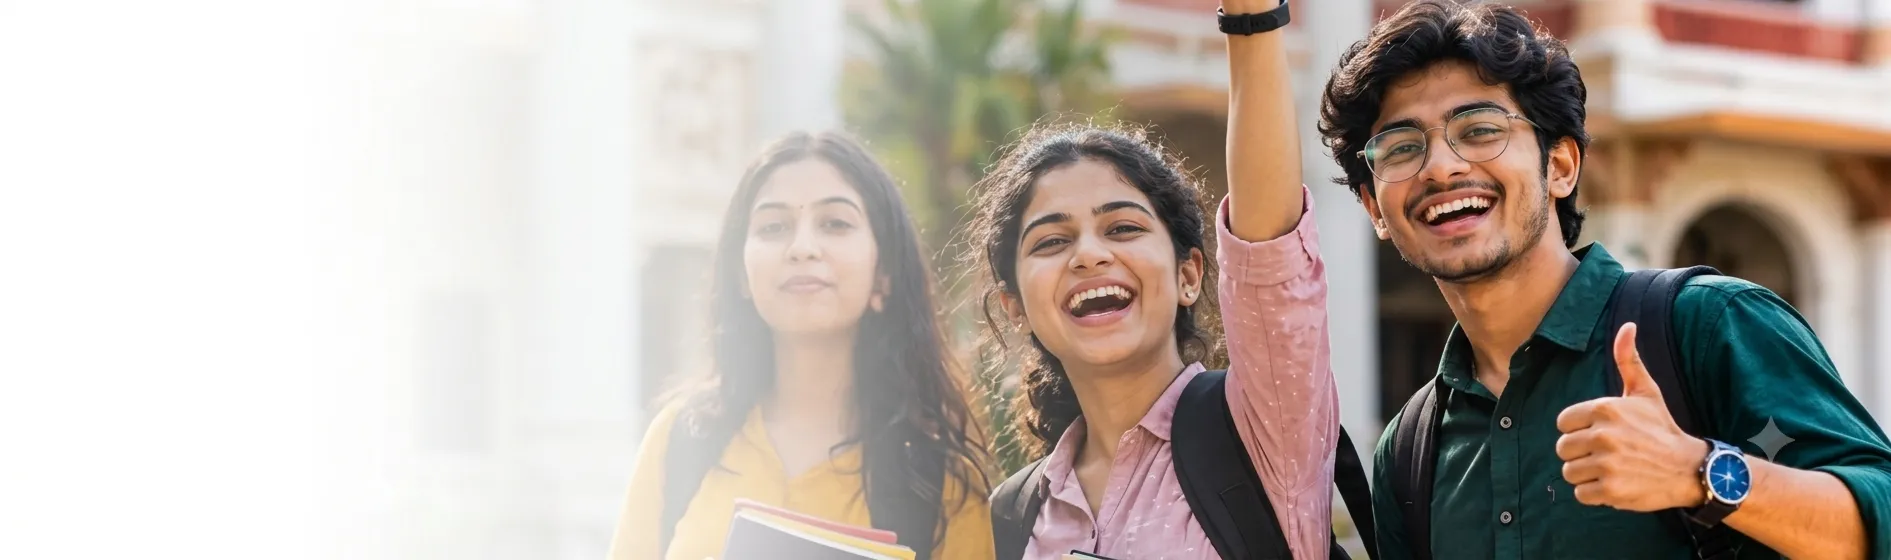
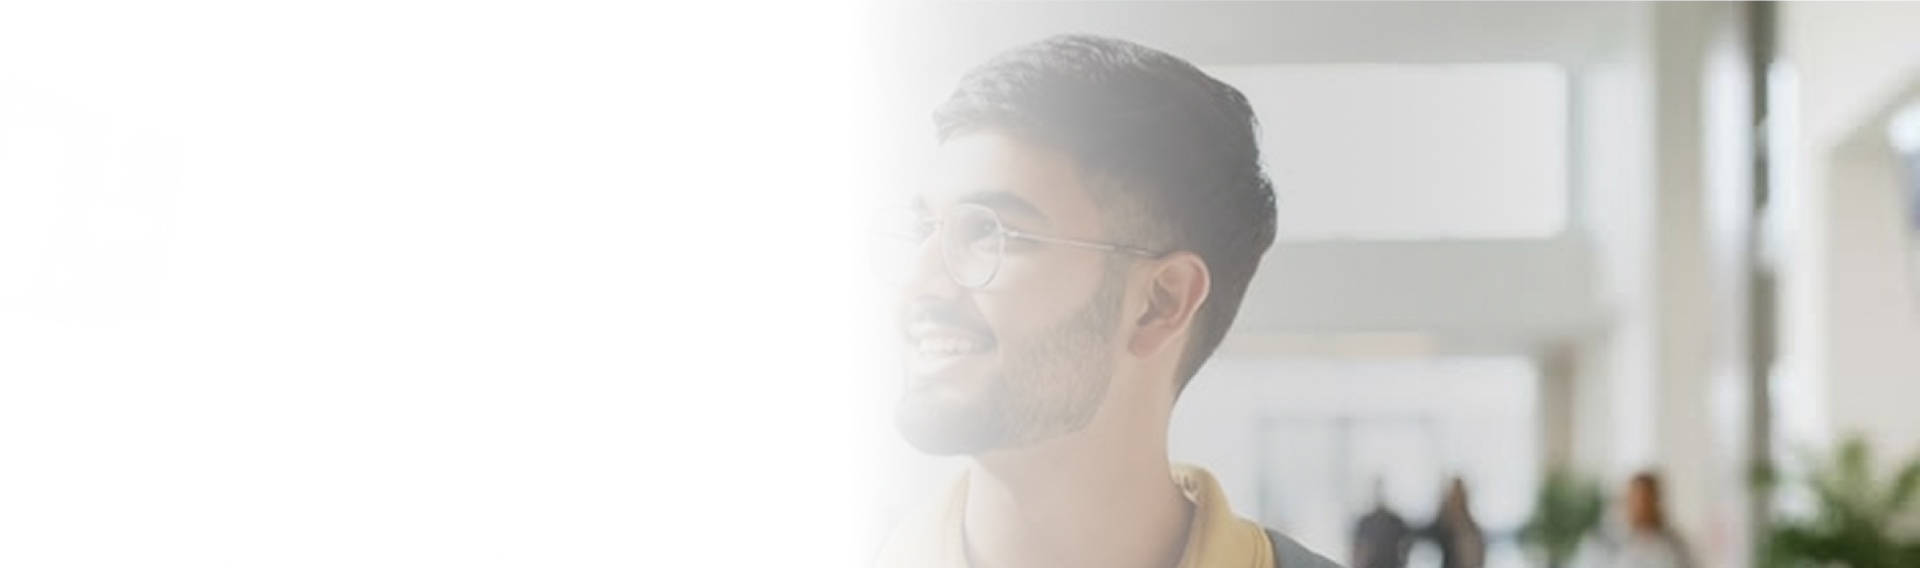
thank you page changes

diff --git a/css/style.css b/css/style.css
@@ -348,7 +348,7 @@ p {
   background-image: url("../images/Container.webp");
   background-repeat: no-repeat;
   background-size: cover;
-  background-position: bottom left;
+  background-position: center center;
 }
 
 .hero-container {
@@ -1225,5 +1225,13 @@ p {
 
   .carousel-container {
     padding: 0px
+  }
+}
+
+@media (max-width: 576px) {
+  .hero-bg-img {
+    background:
+      linear-gradient(rgba(211, 211, 211, 0.5), rgba(211, 211, 211, 0.5)),
+      url("../images/ContainerMobile.webp") 50% / cover no-repeat;
   }
 }
